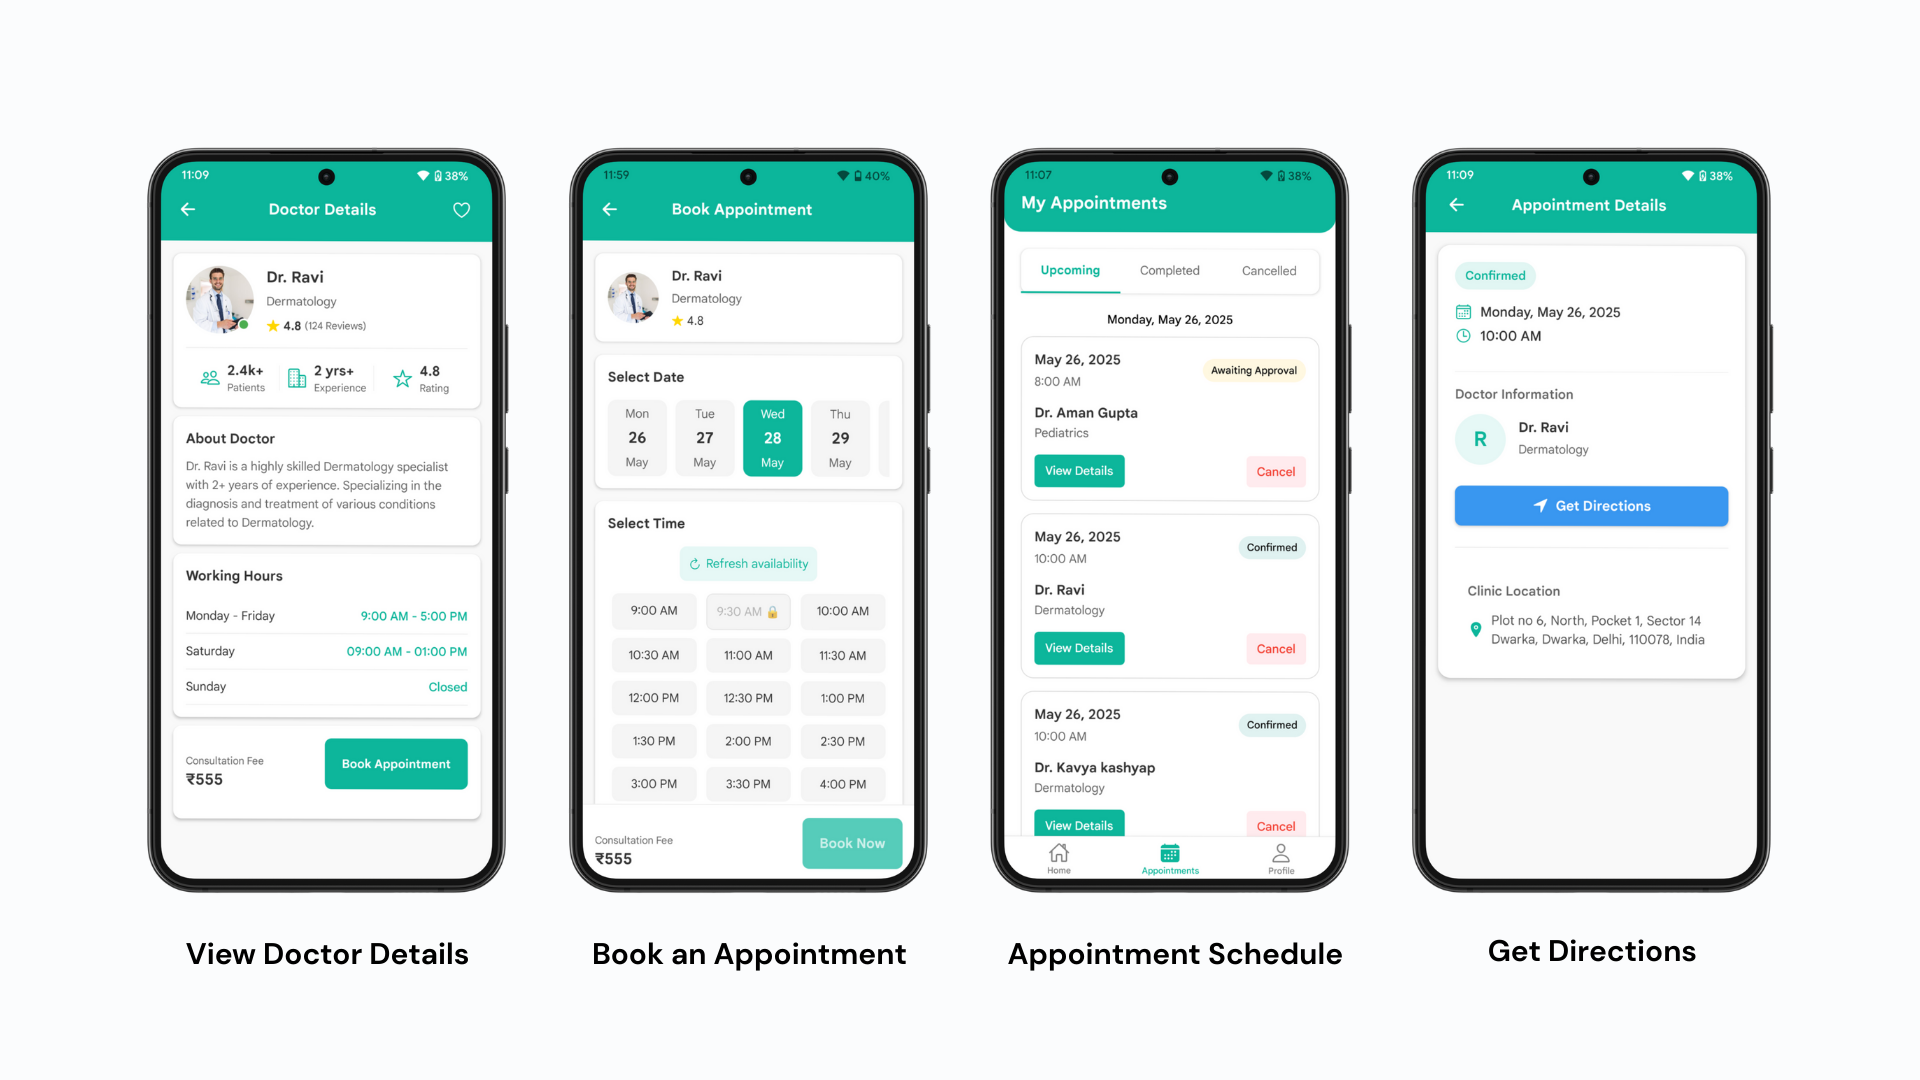
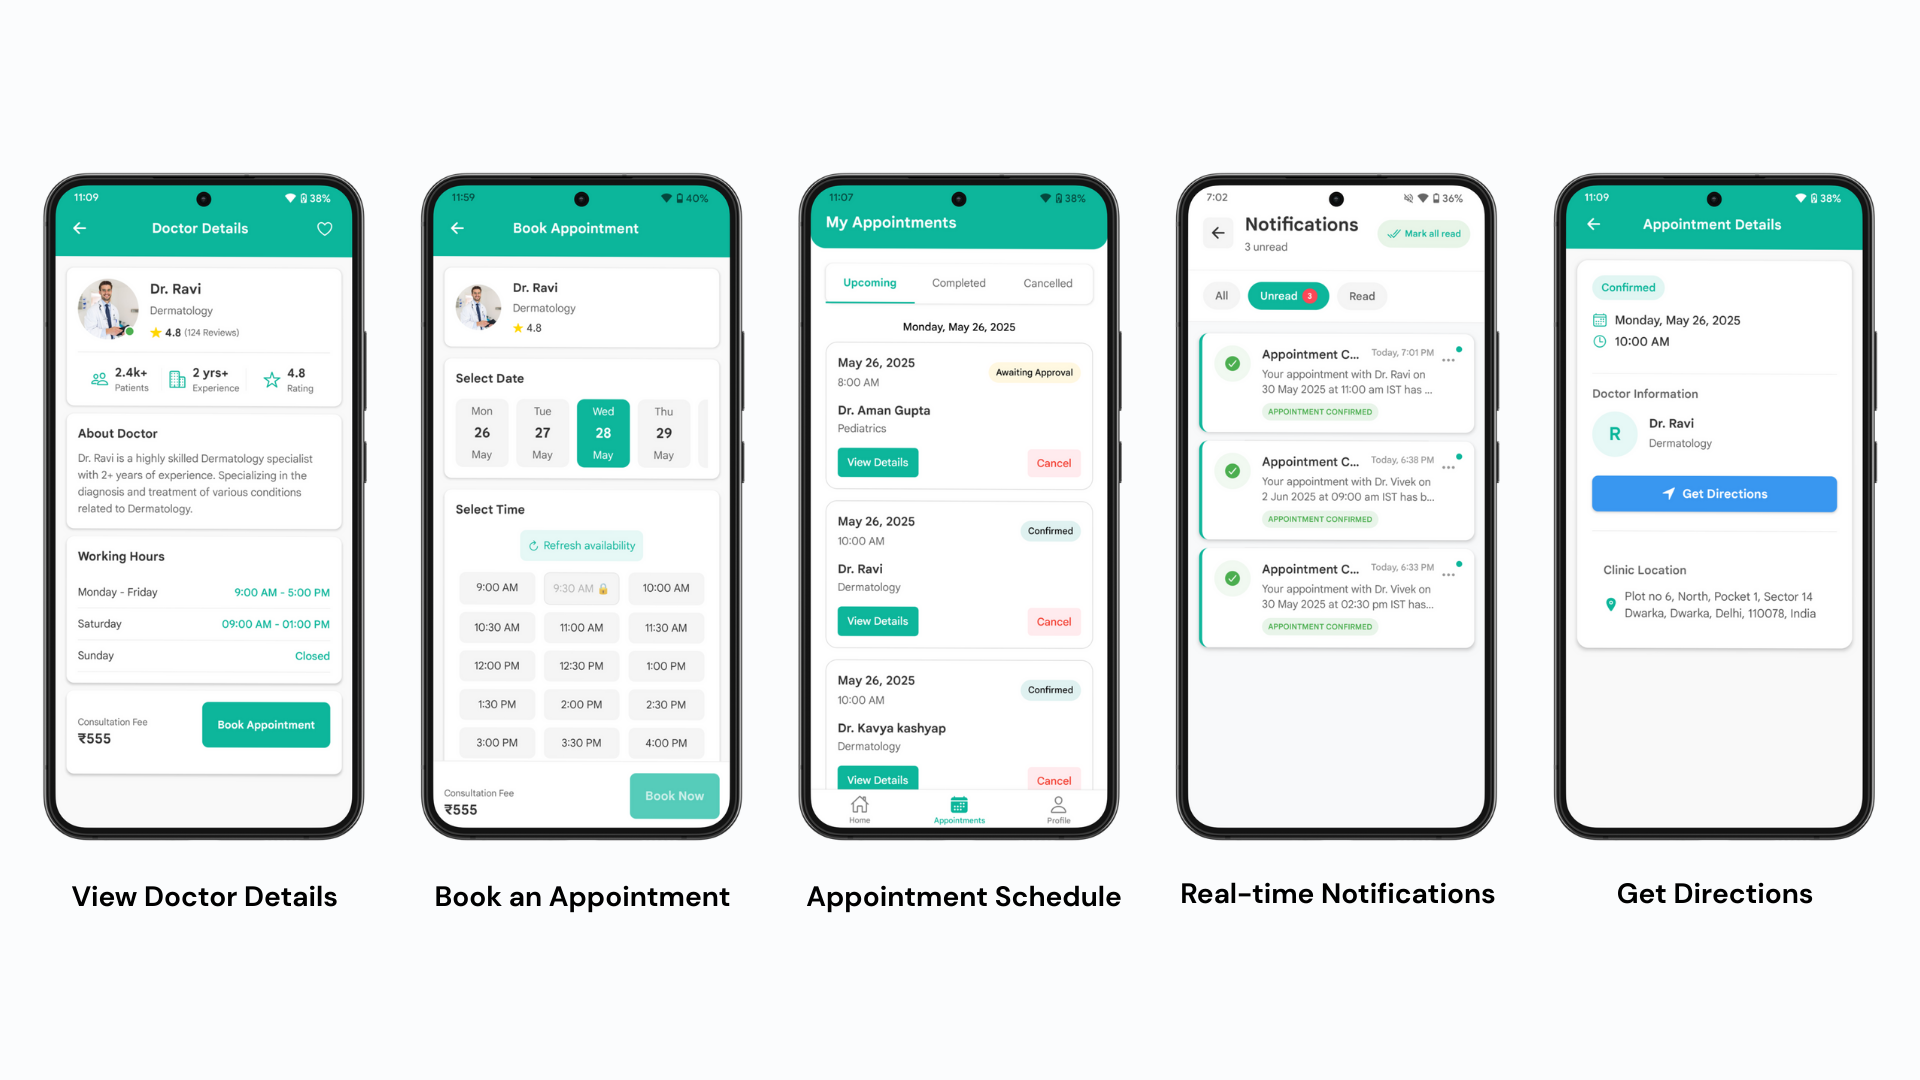
Update README.md

Changed region(s): [[0.0, 0.1222, 1.0, 0.9167]]

diff --git a/src/context/AuthContext.jsx b/src/context/AuthContext.jsx
@@ -18,8 +18,8 @@ export const AuthProvider = ({children}) => {
   const [loading, setLoading] = useState(true);
   const [error, setError] = useState(null);
   const [isInitialized, setIsInitialized] = useState(false);
-  const API_URL = 'http://192.168.1.10:3000/api'; // Using teammate's IP
-  //const API_URL = 'https://careconnect-server-teal.vercel.app/api'; // Using Vercel deployment
+  //const API_URL = 'http://192.168.1.10:3000/api'; // Using teammate's IP
+  const API_URL = 'https://careconnect-server-teal.vercel.app/api'; // Using Vercel deployment
   useEffect(() => {
     // Initial load
     loadUserFromStorage();

diff --git a/src/services/notifications.js b/src/services/notifications.js
@@ -7,8 +7,8 @@ import AsyncStorage from '@react-native-async-storage/async-storage';
 import {Platform, Alert, Linking} from 'react-native';
 import axios from 'axios';
 import {PermissionsAndroid} from 'react-native';
-const API_URL = 'http://192.168.1.10:3000/api';
-//const API_URL = 'https://careconnect-server-teal.vercel.app/api'; // Using Vercel deployment
+//const API_URL = 'http://192.168.1.10:3000/api';
+const API_URL = 'https://careconnect-server-teal.vercel.app/api'; // Using Vercel deployment
 const notificationApi = axios.create({
   baseURL: API_URL,
   timeout: 10000,

diff --git a/src/services/api.js b/src/services/api.js
@@ -2,8 +2,8 @@ import axios from 'axios';
 import AsyncStorage from '@react-native-async-storage/async-storage';
 import {Alert} from 'react-native';
 
-const API_URL = 'http://192.168.1.10:3000/api';
-//const API_URL = 'https://careconnect-server-teal.vercel.app/api'; // Using Vercel deployment
+//const API_URL = 'http://192.168.1.10:3000/api';
+const API_URL = 'https://careconnect-server-teal.vercel.app/api'; // Using Vercel deployment
 // Create axios instance
 const api = axios.create({
   baseURL: API_URL,

diff --git a/README.md b/README.md
@@ -4,13 +4,15 @@
 
 CareConnect is a user-friendly mobile application built with React Native that bridges the gap between patients and healthcare providers. The platform enables patients to discover doctors, schedule appointments, and manage their healthcare journey, while providing doctors with tools to efficiently manage their practice and patient interactions.
 
-**Server Repo** - https://github.com/sahildevil/careconnect_server 
+This project has been developed as a submission for the Veersa Hackathon.
 
-**Website Repo** - https://github.com/sahildevil/careconnect_server 
+**Server Repo** - https://github.com/sahildevil/careconnect_server 
 
 **Figma:** - https://www.figma.com/design/dumfvVWw44B3CGGGFZJsPE/CareConnect?node-id=0-1&t=ePAsApcBFMhyXNAY-1
 
-**APK:** - 
+**APK:** - https://drive.google.com/drive/folders/1IdTUlCvwAt6oYTvxSbs4811QhExKpdxK?usp=sharing
+
+**Website Repo** - https://github.com/anchal6904/careconnect
 
 ## ✨ Features
 
